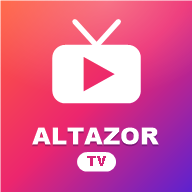
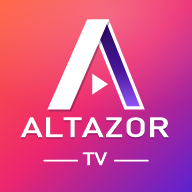
Icono nuevo de Altazor TV estilo letra grande + nombre en la barra

Changed region(s): [[0.0938, 0.0938, 0.875, 0.9062], [0.0, 0.0, 1.0, 1.0]]

diff --git a/estilos.css b/estilos.css
@@ -47,21 +47,29 @@ html, body {
   letter-spacing: 0.3px;
 }
 
-.marca { font-weight: 800; }
-
 .marca-icono {
-  width: 34px;
-  height: 34px;
+  width: 36px;
+  height: 36px;
   border-radius: 9px;
-  box-shadow: 0 2px 10px rgba(236, 38, 110, 0.4);
+  box-shadow: 0 2px 12px rgba(236, 38, 110, 0.45);
+}
+
+.marca-texto {
+  display: inline-block;
+  font-family: "Bahnschrift", "Segoe UI", system-ui, sans-serif;
+  font-weight: 700;
+  font-size: 1.2rem;
+  letter-spacing: 0.14em;
+  transform: scaleX(1.12);
+  transform-origin: left center;
 }
 
 .marca-tv {
-  padding: 1px 8px;
-  border-radius: 999px;
-  font-size: 0.85em;
-  background: linear-gradient(135deg, #ff5e3a, #ec266e 50%, #5c21d0);
-  color: #fff;
+  margin-left: 2px;
+  background: linear-gradient(135deg, #ff5e3a, #ec266e 45%, #a64dff);
+  -webkit-background-clip: text;
+  background-clip: text;
+  color: transparent;
 }
 
 .chip {

diff --git a/index.html b/index.html
@@ -20,7 +20,7 @@
 <body>
 
   <header class="barra">
-    <h1 class="marca"><img class="marca-icono" src="iconos/icono-192.png" alt="" width="34" height="34">Altazor <span class="marca-tv">TV</span></h1>
+    <h1 class="marca"><img class="marca-icono" src="iconos/icono-192.png" alt="" width="36" height="36"><span class="marca-texto">ALTAZOR <span class="marca-tv">TV</span></span></h1>
     <button id="btn-favoritos" class="chip" type="button" aria-pressed="false">☆ Favoritos</button>
   </header>
 

diff --git a/sw.js b/sw.js
@@ -1,7 +1,7 @@
 // Service worker: permite instalar la app y que abra rápido.
 // Siempre busca primero la versión nueva en internet (así tus canales
 // nuevos aparecen altiro); si no hay conexión, usa la copia guardada.
-const CACHE = "altazortv-v2";
+const CACHE = "altazortv-v3";
 const ARCHIVOS = [
   "./",
   "index.html",
